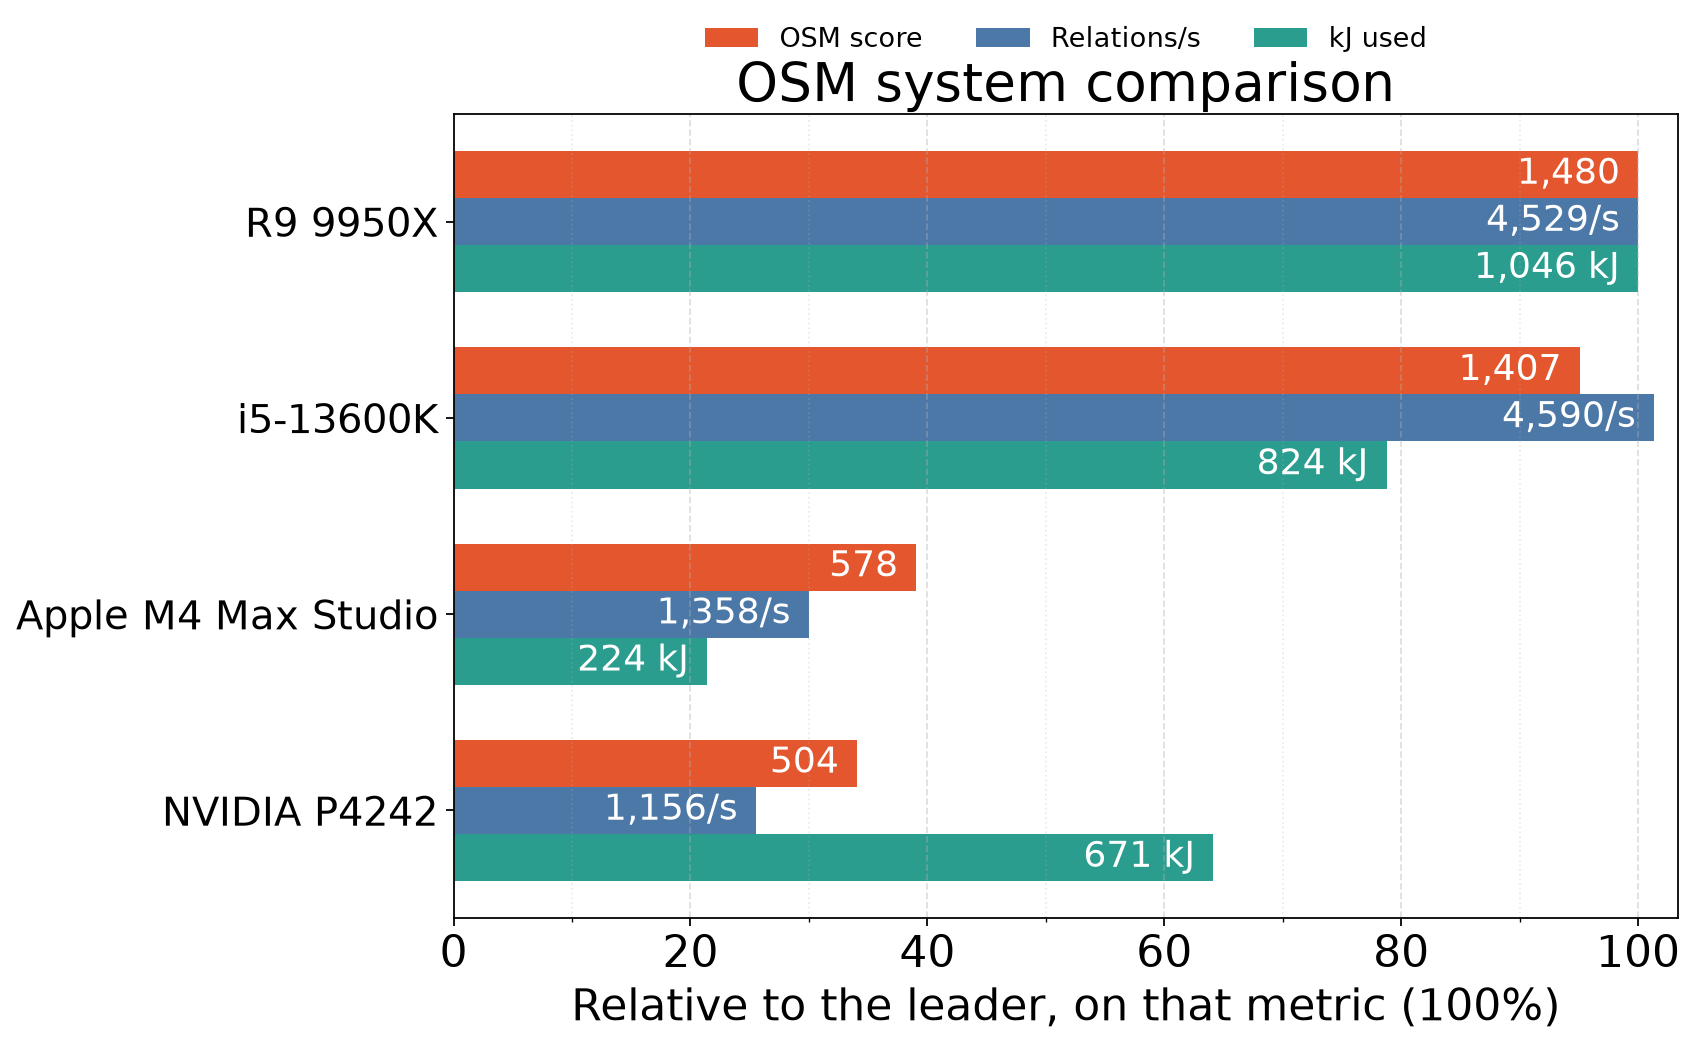
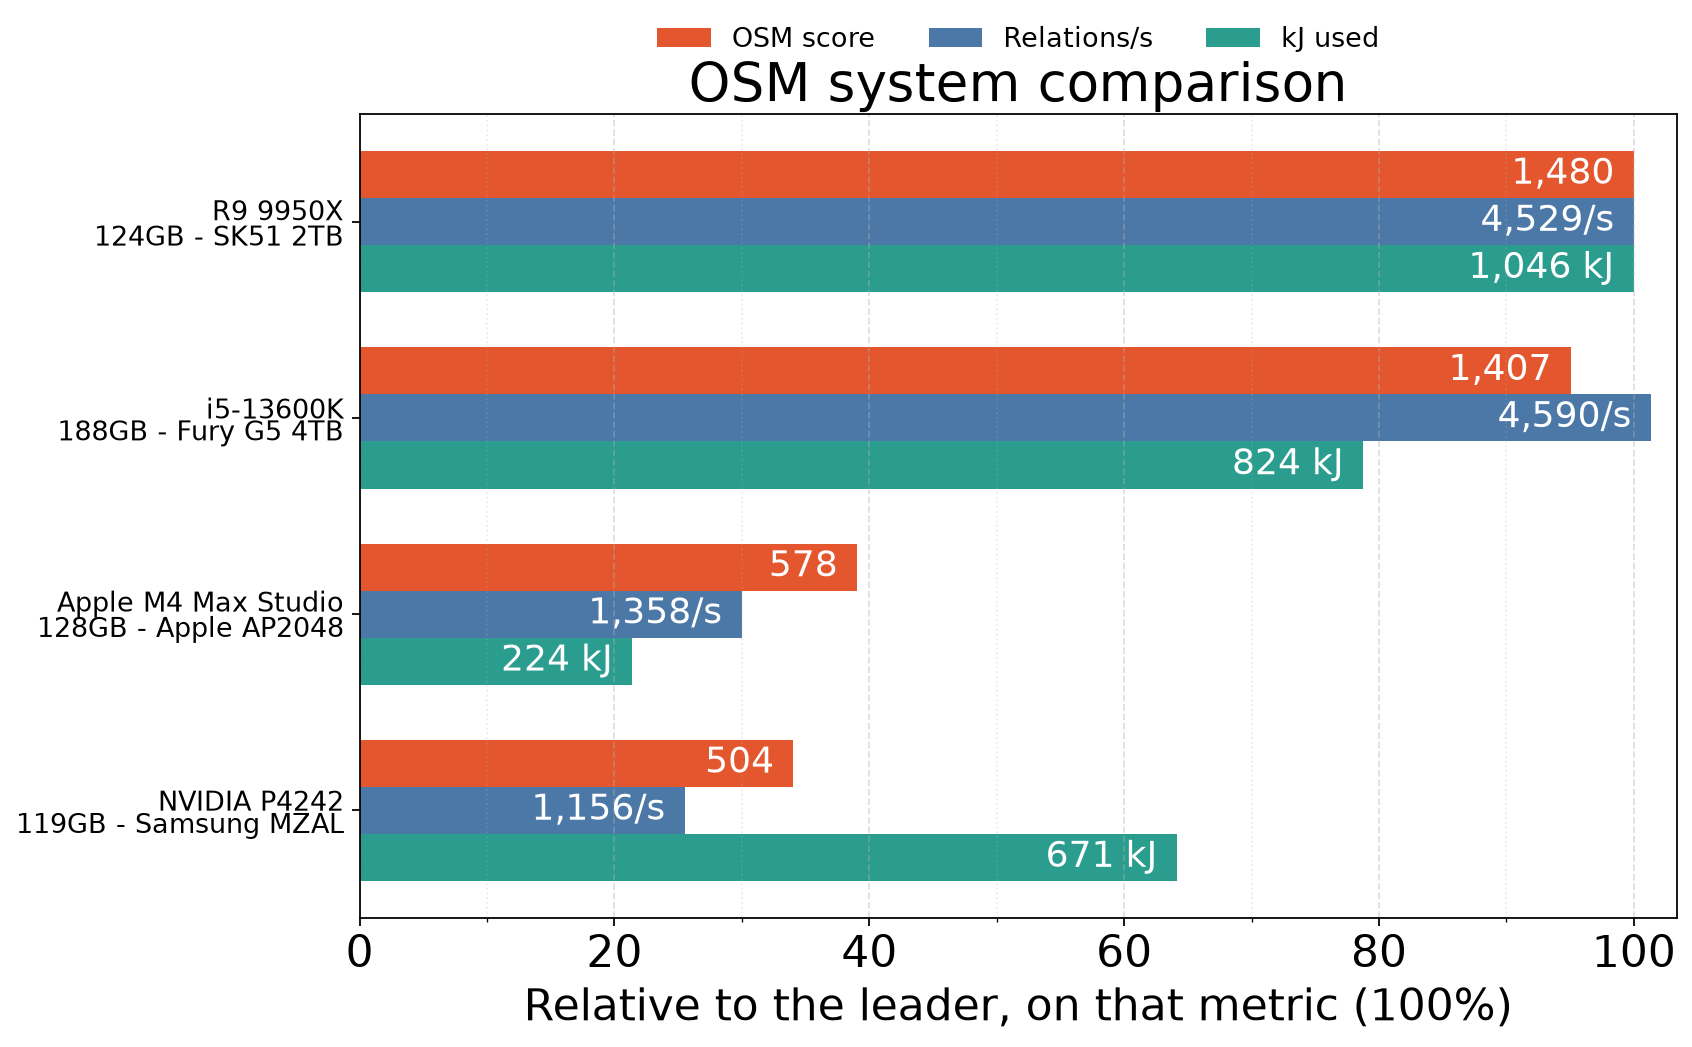
Put memory and disk on a second line on OSM system labels.
The comparison chart was CPU-only; both boards now show the CPU, then memory - disk.

diff --git a/reports/osm-leaderboard.py b/reports/osm-leaderboard.py
@@ -38,7 +38,6 @@ from pg18_style import (
     BAR_LABEL_FONTSIZE,
     LEADERBOARD_LEGEND_FONTSIZE,
     LEADERBOARD_Y_LABEL_FONTSIZE,
-    Y_LABEL_FONTSIZE,
     use_pg18_style,
 )
 from release_paths import REPO_ROOT, add_pg_argument, image_path, snapshot_path
@@ -101,10 +100,10 @@ def numeric(series: pd.Series) -> pd.Series:
 
 
 def config_label(row: pd.Series) -> str:
-    """Two-line label: cpu and memory, then disk on its own line."""
+    """Two-line label: cpu, then memory - disk."""
     mem = int(row["mem_gb"])
     disk = str(row["disk"]).strip()
-    return f"{row['cpu']} · {mem}GB\n{disk}"
+    return f"{row['cpu']}\n{mem}GB - {disk}"
 
 
 def prepare_leaderboard_df(rows: list[dict[str, str]]) -> pd.DataFrame:
@@ -332,7 +331,11 @@ def plot_system_compare(df: pd.DataFrame, output: Path, show: bool = False) -> N
             items.append((yi, float(width), color, fmt.format(float(value))))
 
     ax.set_yticks(y)
-    ax.set_yticklabels(plot_df["cpu"], fontsize=Y_LABEL_FONTSIZE)
+    ax.set_yticklabels(
+        plot_df["label"],
+        fontsize=LEADERBOARD_Y_LABEL_FONTSIZE,
+        linespacing=0.95,
+    )
     ax.set_xlabel("Relative to the leader, on that metric (100%)")
     ax.set_title("OSM system comparison")
     ax.xaxis.set_minor_locator(AutoMinorLocator(2))
